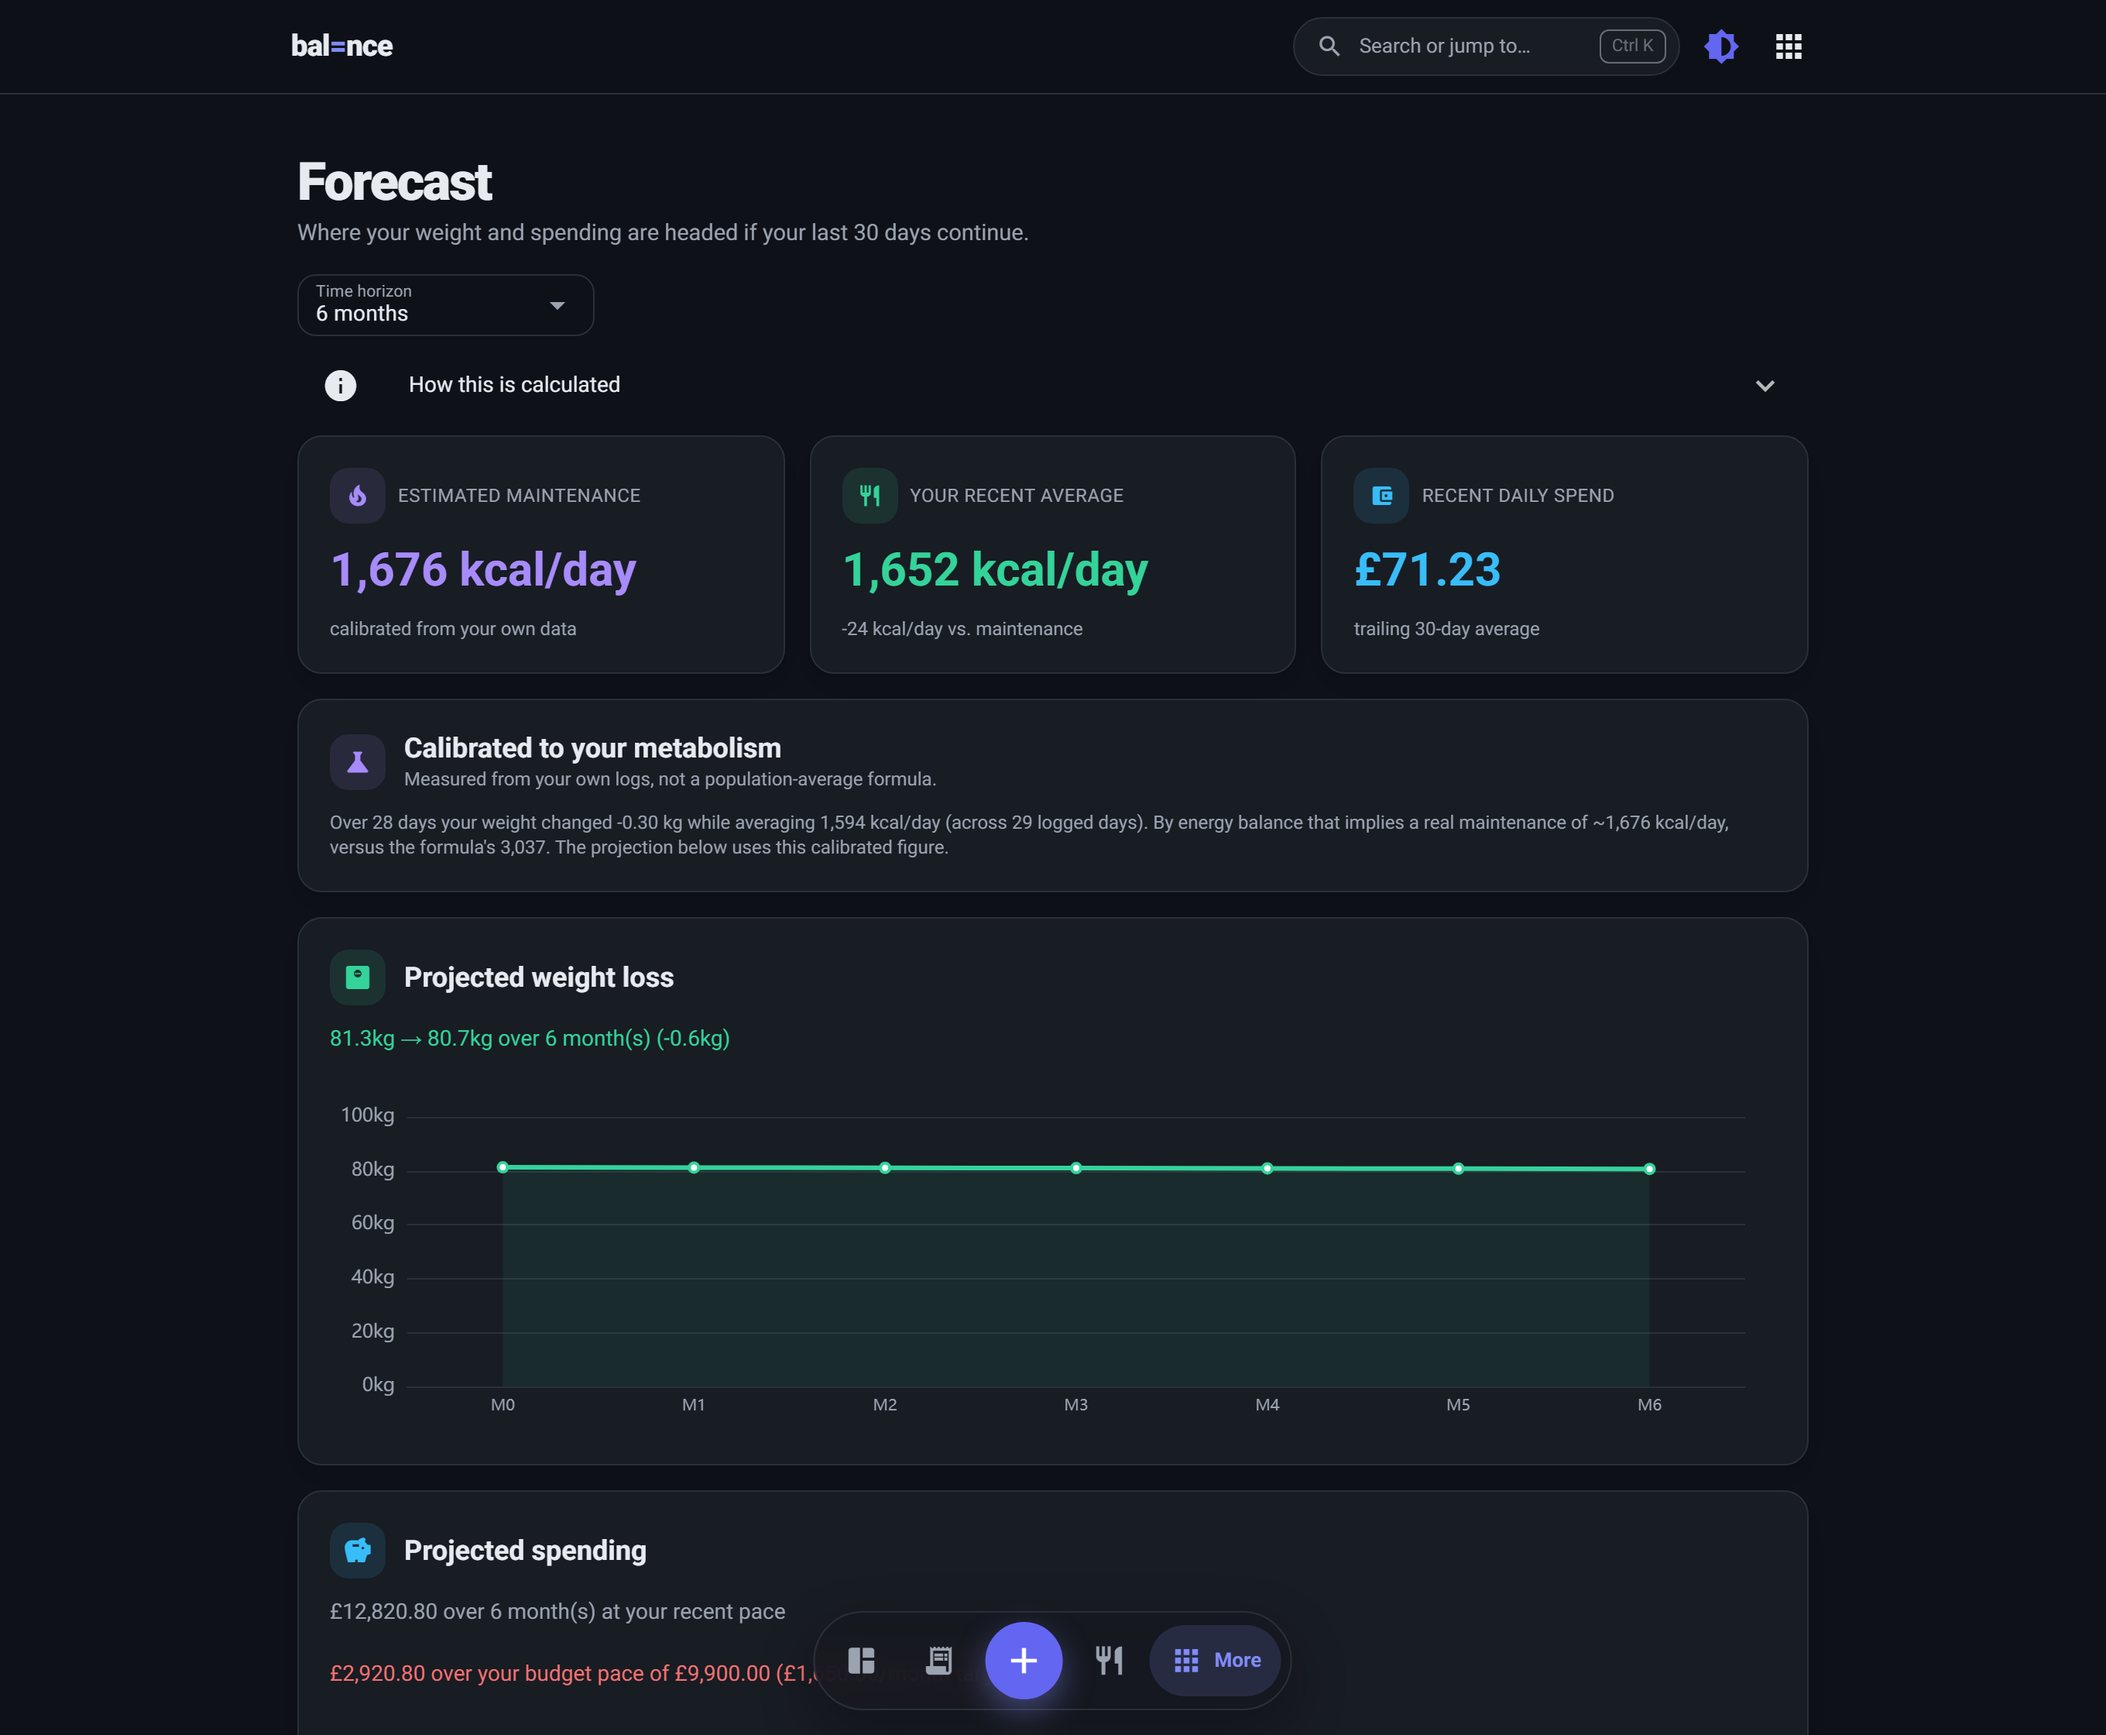
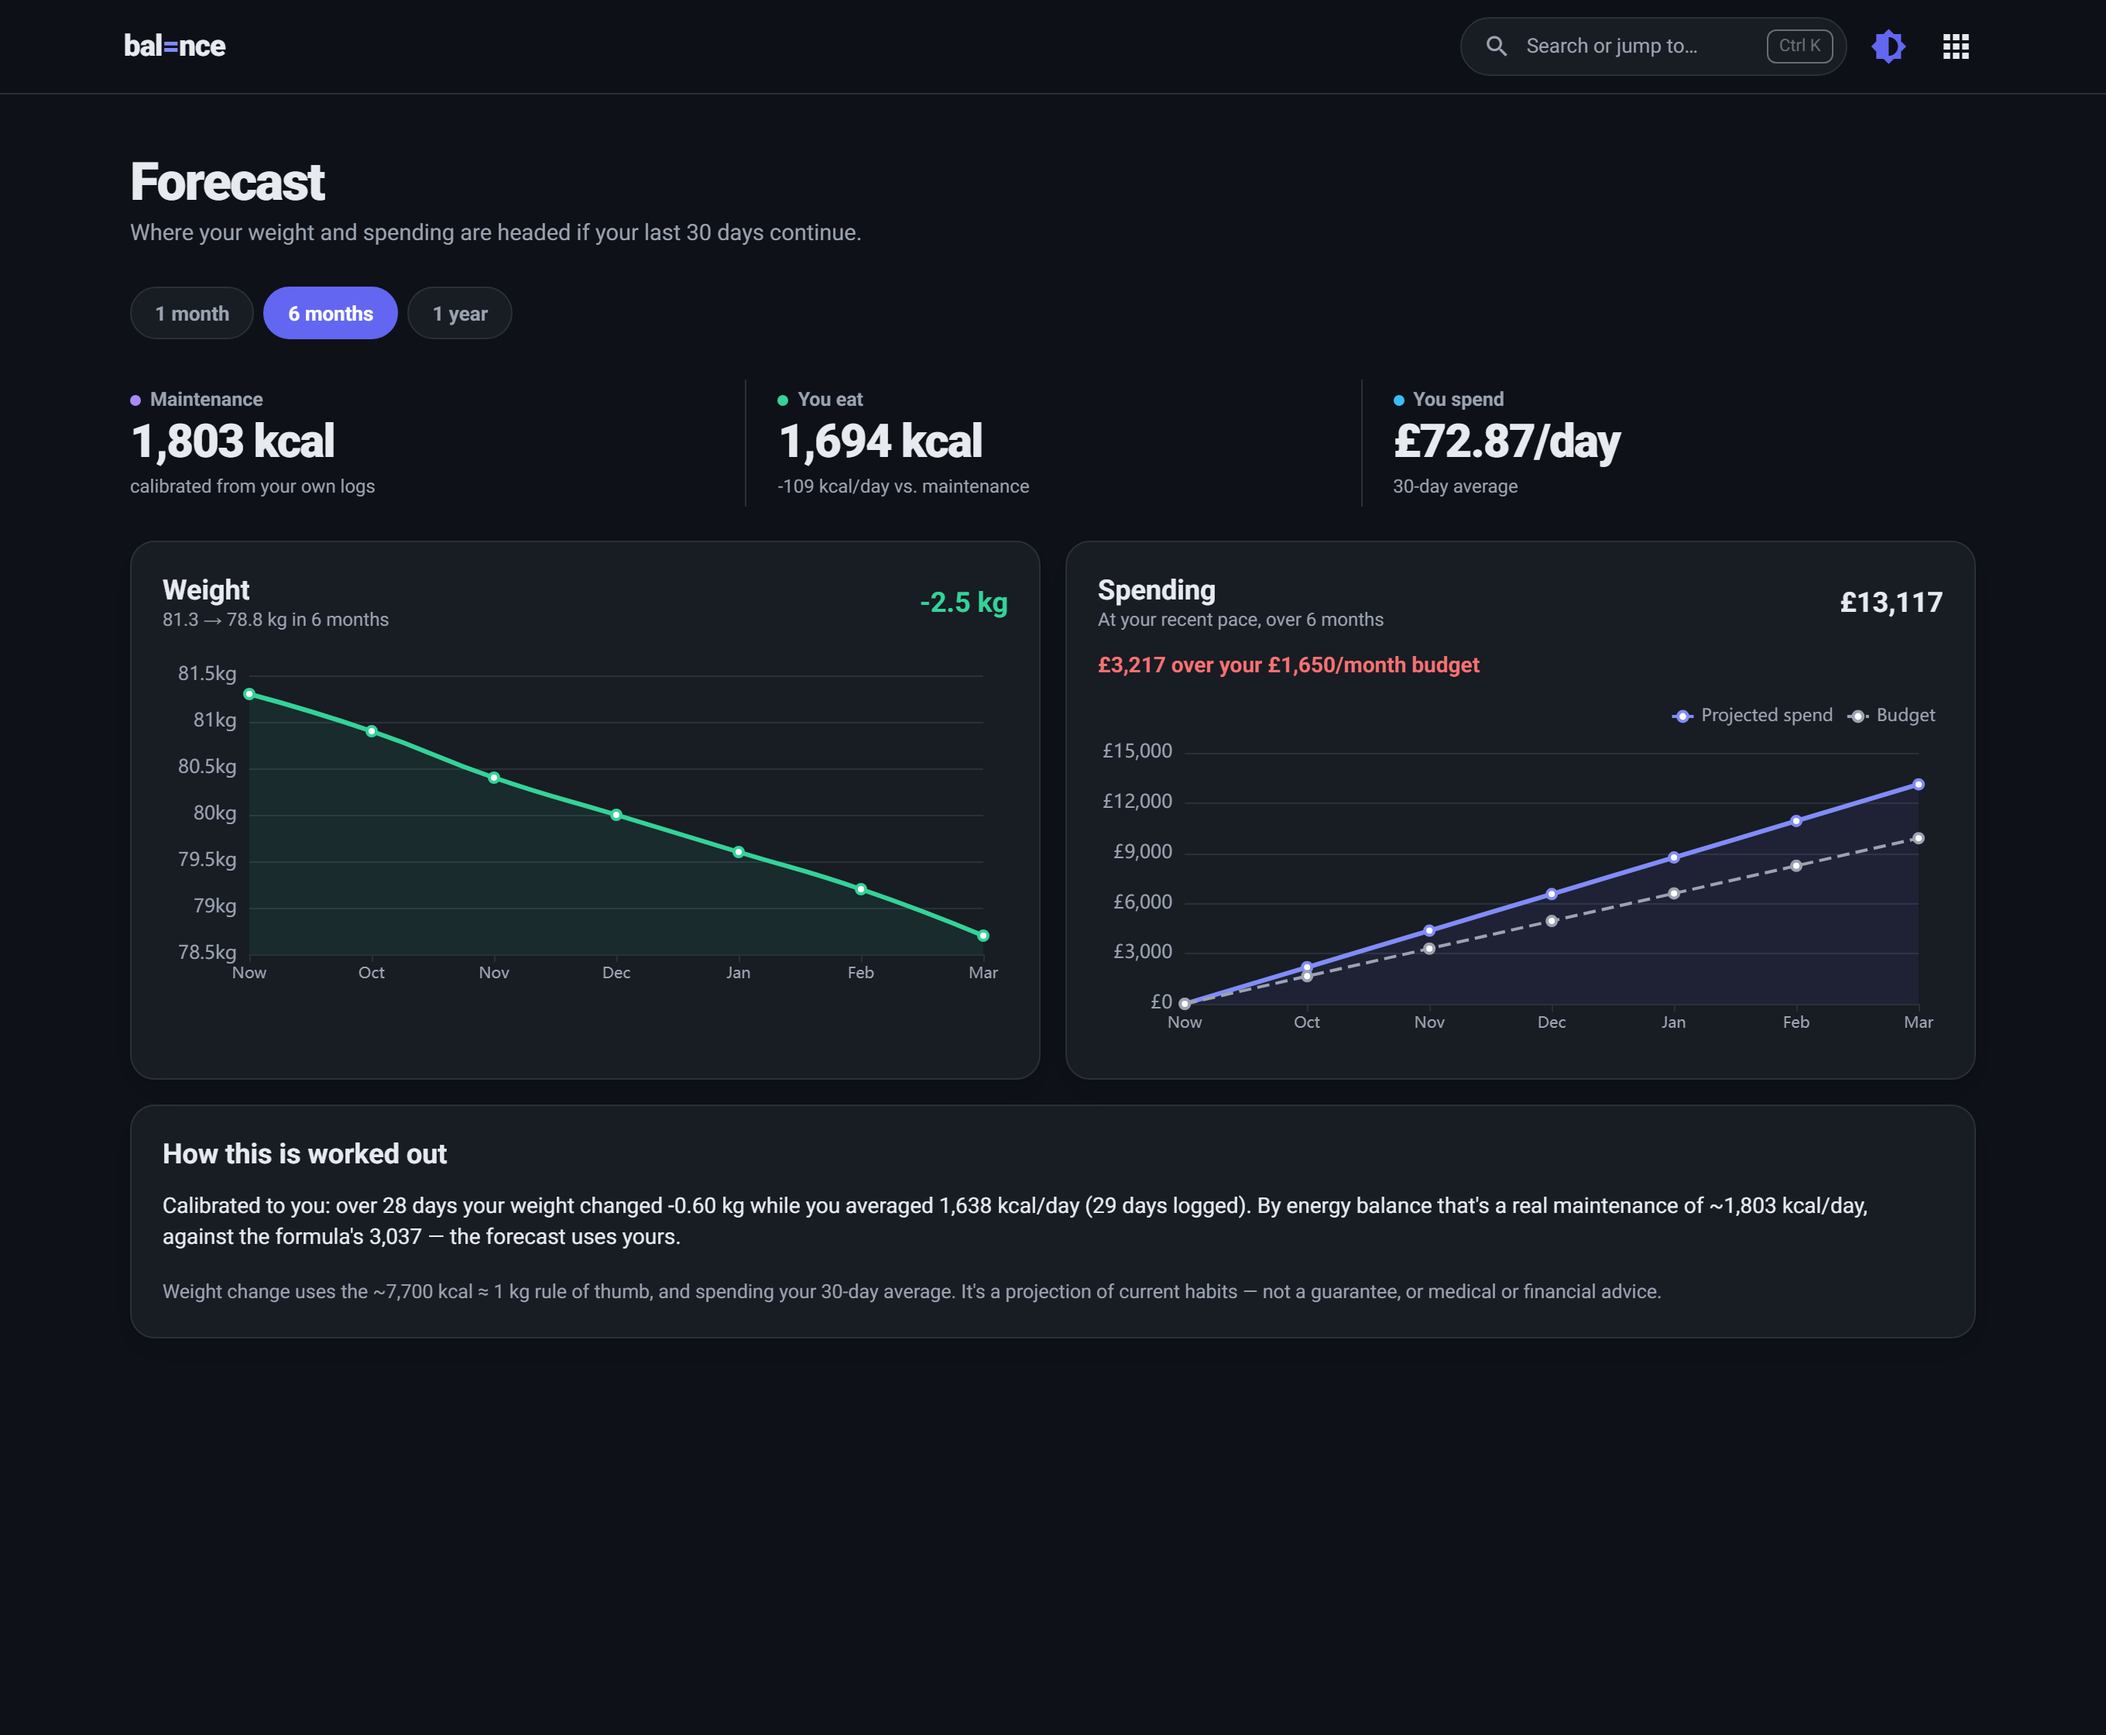
README: screenshots of the latest design; seed works on a fresh DB
- Regenerated all six README screenshots from a freshly seeded demo
  database (dark, 2x): the today-first home, the Money & food card, the
  log + summary Transactions, today-by-meal Food Log, Forecast, Pantry.
  The capture hides the floating dock, and shoots Money & food at a
  one-column width so the card fills the frame.
- README captions describe what's in them now, and the "cost-per-macro"
  point says what Balance actually shows (cost per 1,000 kcal, out vs
  home, best protein per £) rather than a pantry ranking it no longer has.
- seed_demo.py sets up a brand-new database itself (tables, categories),
  so seeding a fresh BALANCE_DB works -- before, it failed with "no such
  table: category" unless the app had run on it first.
- The capture script's instructions showed %TEMP%\balance as
  "%TEMP%<backspace>alance" (an unescaped \b); its docstring is raw now.
  docs/screenshots/README.md gives the sandbox steps instead of seeding
  over a backed-up real database.

diff --git a/scripts/capture_screenshots.py b/scripts/capture_screenshots.py
@@ -1,4 +1,4 @@
-"""Capture the README screenshots into docs/screenshots/.
+r"""Capture the README screenshots into docs/screenshots/.
 
 Real-browser (Chromium via Playwright) captures at 2x, desktop width.
 
@@ -10,13 +10,13 @@ safe (seed_demo.py wipes the tables it fills, so it must not touch app.db):
        pip install playwright
        python -m playwright install chromium
   2. Seed a demo database and serve it on :8001, away from the real app:
-       set BALANCE_DB=%TEMP%alance-demo.db
+       set BALANCE_DB=%TEMP%\balance-demo.db
        set BALANCE_NO_BACKUP=1
-       set NICEGUI_STORAGE_PATH=%TEMP%alance-demo-storage
+       set NICEGUI_STORAGE_PATH=%TEMP%\balance-demo-storage
        python scripts/seed_demo.py
        set BALANCE_PORT=8001
        python run.py
-     (Turn on every module in the demo's Settings so Forecast / Pantry exist.)
+     (In the demo's Settings: Pages -> All on, and the Dark theme.)
   3. From the project root, in another terminal:
        python scripts/capture_screenshots.py
 
@@ -31,20 +31,21 @@ BASE = os.environ.get("BALANCE_URL", "http://127.0.0.1:8001")   # the demo sandb
 OUT = os.path.join(os.path.dirname(os.path.dirname(os.path.abspath(__file__))), "docs", "screenshots")
 WIDTH = 1360
 
-# (filename, path, viewport_height, scroll_to_text_or_None)
+# (filename, path, viewport_height, scroll_to_text_or_None, width_or_None)
 SHOTS = [
-    ("dashboard.png",    "/",             1040, None),
-    ("money-health.png", "/",             1180, "This month"),
-    ("transactions.png", "/transactions", 1040, None),
-    ("food-log.png",     "/food-log",     1040, None),
-    ("forecast.png",     "/forecast",     1120, None),
-    ("pantry.png",       "/pantry",       1000, None),
+    ("dashboard.png",    "/",             1040, None, None),
+    # Narrower, so the dashboard is one column and the Money & food card fills it.
+    ("money-health.png", "/",             500, "Money & food", 820),
+    ("transactions.png", "/transactions", 1040, None, None),
+    ("food-log.png",     "/food-log",     1040, None, None),
+    ("forecast.png",     "/forecast",     1120, None, None),
+    ("pantry.png",       "/pantry",       1000, None, None),
 ]
 
 SCROLL_JS = """(t) => {
   const el = [...document.querySelectorAll('*')]
     .find(e => e.children.length === 0 && e.textContent.trim() === t);
-  if (el) { el.scrollIntoView({block: "start"}); window.scrollBy(0, -84); }  // clear the fixed top bar
+  if (el) { el.scrollIntoView({block: "start"}); window.scrollBy(0, -110); }  // clear the fixed top bar
   return !!el;
 }"""
 
@@ -55,10 +56,12 @@ def main():
         browser = p.chromium.launch()
         ctx = browser.new_context(viewport={"width": WIDTH, "height": 1040}, device_scale_factor=2)
         page = ctx.new_page()
-        for name, path, height, scroll_text in SHOTS:
-            page.set_viewport_size({"width": WIDTH, "height": height})
+        for name, path, height, scroll_text, width in SHOTS:
+            page.set_viewport_size({"width": width or WIDTH, "height": height})
             page.goto(BASE + path, wait_until="load")
             time.sleep(2.5)  # let NiceGUI hydrate + ECharts/ring gauges render
+            # The floating dock would sit over the content in a still image.
+            page.add_style_tag(content=".b-dock { display: none !important; }")
             if scroll_text:
                 page.evaluate(SCROLL_JS, scroll_text)
                 time.sleep(1.0)

diff --git a/scripts/seed_demo.py b/scripts/seed_demo.py
@@ -14,12 +14,16 @@ sys.path.insert(0, os.path.dirname(os.path.dirname(os.path.abspath(__file__))))
 
 from sqlmodel import Session, select  # noqa: E402
 
-from backend.database import engine  # noqa: E402
+from backend.database import create_db_and_tables, engine  # noqa: E402
 from backend.models import (  # noqa: E402
     Category, Transaction, Income, FoodLog, WaterLog, WeightLog,
     UserProfile, BudgetTarget, PantryItem, Subscription, PriceObservation,
 )
 from backend.timeutil import utcnow  # noqa: E402
+
+# A brand-new database (a fresh BALANCE_DB) has no tables or categories until
+# the app has run once; set it up the same way the app does.
+create_db_and_tables()
 
 random.seed(42)
 today = date.today()

diff --git a/docs/screenshots/README.md b/docs/screenshots/README.md
@@ -1,30 +1,36 @@
 # Screenshots
 
-The main [`README.md`](../../README.md) references these image files. Add PNGs
-here with these exact names:
+The main [`README.md`](../../README.md) references these image files.
+`scripts/capture_screenshots.py` regenerates all of them (dark theme, 2x).
 
-| File | Page | Notes |
+| File | Page | Shows |
 |---|---|---|
-| `dashboard.png` | Dashboard (top) | Filled ring gauges, attention nudges, budget bar |
-| `money-health.png` | Dashboard (mid) | Best-value-protein + Insights + Savings chart |
-| `transactions.png` | Transactions | Summary strip + categorised log |
-| `food-log.png` | Food Log | Summary strip + meals by day |
-| `forecast.png` | Forecast | Calibrated-TDEE card + projection charts |
-| `pantry.png` | Pantry | Summary strip + expiring-soon + stock |
+| `dashboard.png` | Home | Today (spend, macro rings, water), Worth knowing, This month, Money & food |
+| `money-health.png` | Home, Money & food card | Food spend vs calories, eating out vs at home, best-value protein |
+| `transactions.png` | Transactions | Figures, the log by day, the summary beside it |
+| `food-log.png` | Food Log | Today by meal against targets, earlier days, nutrition summary |
+| `forecast.png` | Forecast | Calibrated maintenance, weight and spending projections |
+| `pantry.png` | Pantry | Figures, use-these-first, stock by location |
 
-## Regenerating the demo dataset
+## Regenerating them
 
-Screenshots use generated demo data (no real personal data). To reproduce:
+They're public, so they only ever show generated demo data. Seed it into a
+throwaway database and serve that on port 8001 -- never point this at your real
+`data/app.db` (`scripts/seed_demo.py` wipes the tables it fills):
 
 ```bash
-# 1. Stop the app so the DB file is free, then back it up
-#    (VACUUM INTO gives a clean single-file snapshot)
-# 2. Seed ~6 months of realistic demo data:
-PYTHONPATH=. python scripts/seed_demo.py
-# 3. Start the app, take the screenshots
-# 4. Restore your real DB by copying the snapshot back over data/app.db
-#    and deleting data/app.db-wal / data/app.db-shm
+# a separate database, no backups, its own session storage, its own port
+set BALANCE_DB=%TEMP%alance-demo.db
+set BALANCE_NO_BACKUP=1
+set NICEGUI_STORAGE_PATH=%TEMP%alance-demo-storage
+python scripts/seed_demo.py
+set BALANCE_PORT=8001
+python run.py
 ```
 
-`scripts/seed_demo.py` wipes operational rows first (keeps categories and the
-singleton profile/goals), so only run it against a database you've backed up.
+Turn on every page in the demo's Settings (Pages → All on) and pick the Dark
+theme, then in another terminal from the project root:
+
+```bash
+python scripts/capture_screenshots.py      # BALANCE_URL defaults to :8001
+```

diff --git a/README.md b/README.md
@@ -28,8 +28,10 @@ Tailscale as an installable PWA.
 
 That intersection is also the **filter** for what earns a place in the product:
 
-- **Cost-per-macro.** Balance ranks your pantry by *protein per £*, so "eat well
-  on a budget" becomes a number instead of a vibe.
+- **What your eating costs.** Balance puts your food spend against the calories
+  you log: cost per 1,000 kcal, eating out vs cooking at home, and the best
+  protein per £ in your pantry — so "eat well on a budget" becomes a number
+  instead of a vibe.
 - **Eating out, costed both ways.** Log a meal out and it records the £ *and* the
   kcal in one entry.
 - **Everything else earns its place.** Single-sided features (net worth, price
@@ -46,14 +48,16 @@ data never leaves your machine — no accounts, no cloud, no telemetry.
 
 > Rendered with generated demo data — no real personal finances shown.
 
-**Money × health** — the signature view: cost-per-macro ranking, computed
-month-over-month insights, and a savings chart with a cumulative "total saved" line.
+**Money × health** — the signature view: four weeks of food spend against the
+calories you logged — cost per 1,000 kcal, eating out's share of the money vs
+its share of the calories, what a calorie costs out vs at home, and the best
+protein per £ in your pantry.
 
 ![Money × health](docs/screenshots/money-health.png)
 
 | | |
 |---|---|
-| **Transactions** — searchable, categorised, CSV export, per-row context tags. | **Food Log** — meals against your daily targets, macros, barcode lookup. |
+| **Transactions** — searchable, categorised, CSV export, per-row context tags. | **Food Log** — today by meal against your targets, earlier days, and a nutrition summary. |
 | ![Transactions](docs/screenshots/transactions.png) | ![Food Log](docs/screenshots/food-log.png) |
 | **Forecast** — TDEE *calibrated from your own weight + intake history*, not a population formula. | **Pantry** — stock with cost + macros, expiry alerts, waste tracking. |
 | ![Forecast](docs/screenshots/forecast.png) | ![Pantry](docs/screenshots/pantry.png) |
